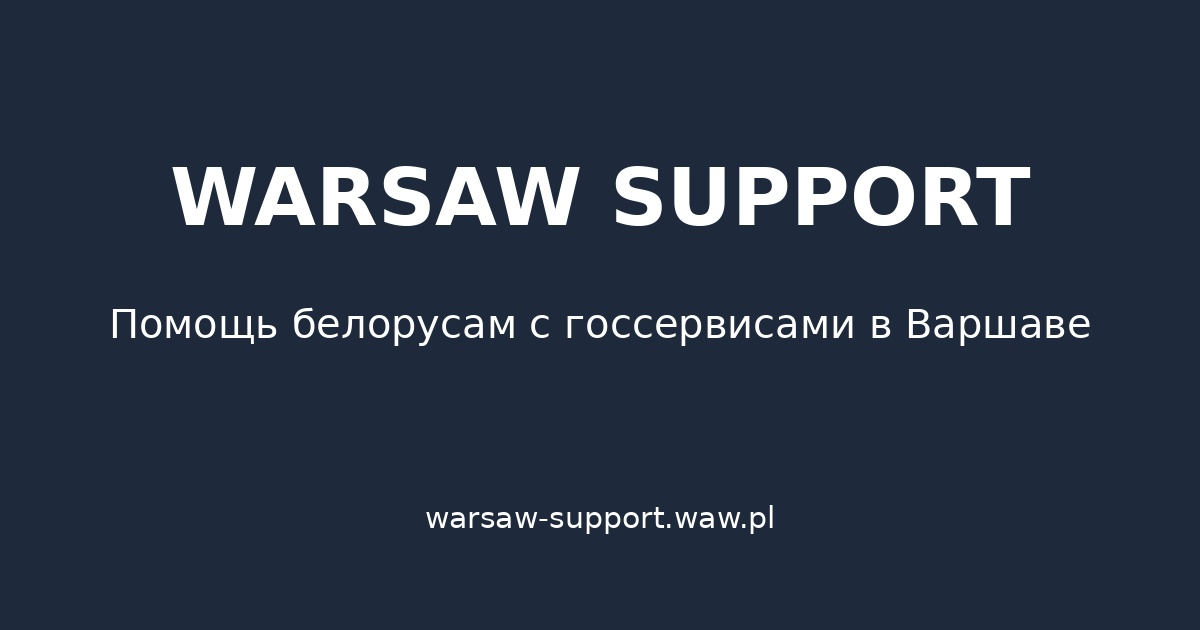
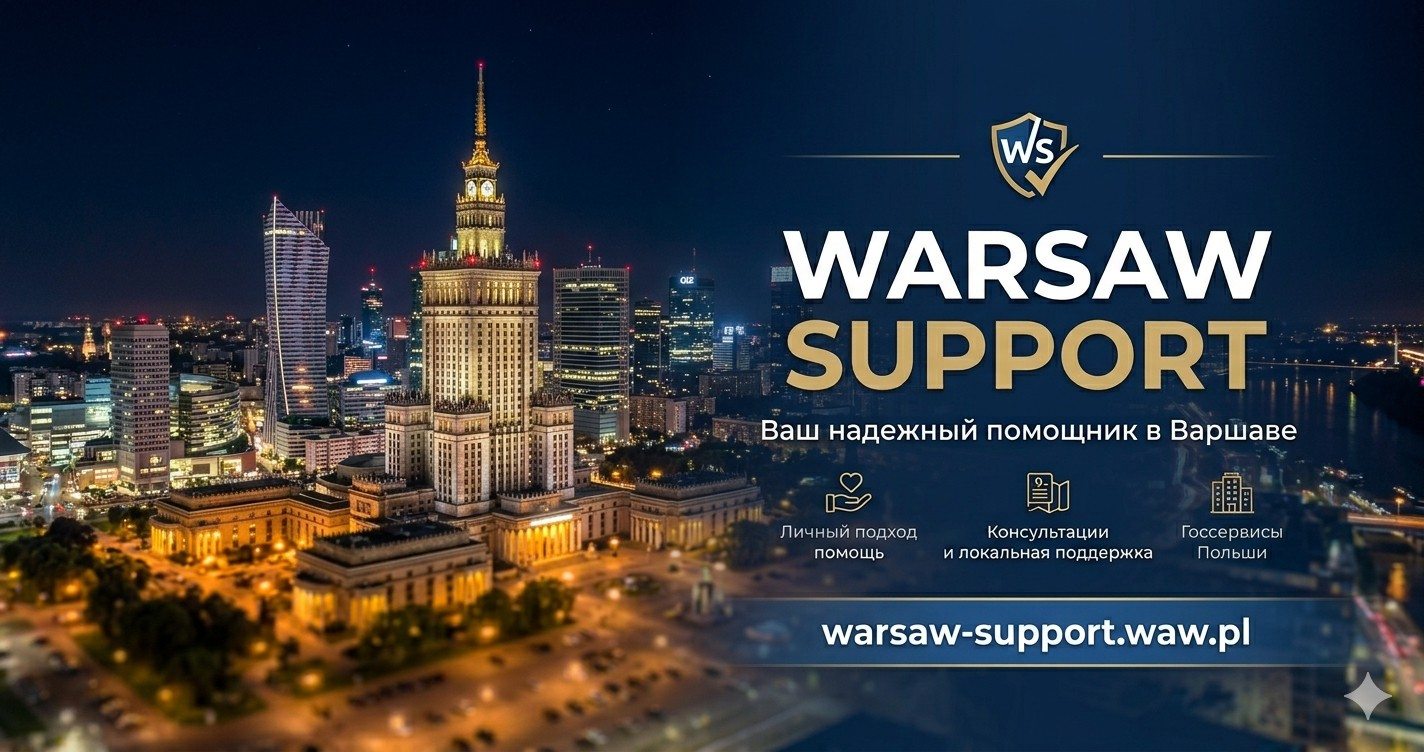
fix: adjust spacing for pop-up elements and update og-image
- Reduced gap in cookie notice from 24px to 12px.
- Reduced margin-top for open bento and FAQ items from 0.4rem to 0.25rem.
- Reduced gap in FAB menu from 0.4rem to 0.25rem.
- Replaced og-image.jpg with the updated version and updated meta tags.
- Verified all spacing changes via visual regression screenshots.

diff --git a/index.html b/index.html
@@ -17,8 +17,8 @@
     <meta property="og:locale" content="ru_RU">
     <meta property="og:site_name" content="Warsaw Support">
     <meta property="og:image" content="https://warsaw-support.waw.pl/og-image.jpg">
-    <meta property="og:image:width" content="1200">
-    <meta property="og:image:height" content="630">
+    <meta property="og:image:width" content="1424">
+    <meta property="og:image:height" content="752">
 
     <!-- Twitter Card -->
     <meta name="twitter:card" content="summary_large_image">
@@ -398,7 +398,7 @@
         .bento-item h4::after { content: "+"; color: var(--text-muted); font-size: 1.2rem; transition: transform 0.3s; }
         .bento-item.open h4::after { transform: rotate(45deg); color: var(--tg-color); }
         .bento-content { max-height: 0; overflow: hidden; transition: max-height 0.3s ease; font-size: 0.9rem; color: var(--text-muted); line-height: 1.5; }
-        .bento-item.open .bento-content { max-height: 18.75rem; margin-top: 0.4rem; color: #1e293b; }
+        .bento-item.open .bento-content { max-height: 18.75rem; margin-top: 0.25rem; color: #1e293b; }
 
         .steps-layout {
             display: flex;
@@ -475,7 +475,7 @@
         .faq-question::after { content: "+"; color: var(--text-muted); font-size: 1.1rem; transition: transform 0.3s; }
         .faq-item.open .faq-question::after { transform: rotate(45deg); color: var(--accent); }
         .faq-answer { max-height: 0; overflow: hidden; transition: max-height 0.3s ease; font-size: 0.9rem; color: var(--text-muted); }
-        .faq-item.open .faq-answer { max-height: 18.75rem; margin-top: 0.4rem; color: #1e293b; }
+        .faq-item.open .faq-answer { max-height: 18.75rem; margin-top: 0.25rem; color: #1e293b; }
 
 
         .quiz-container {
@@ -677,7 +677,7 @@
             display: flex;
             flex-direction: column-reverse;
             align-items: flex-end;
-            gap: 0.4rem;
+            gap: 0.25rem;
             opacity: 0;
             pointer-events: none;
             transform: translateY(1rem);
@@ -1164,7 +1164,7 @@
         </div>
     </div>
 
-    <div id="cookieNotice" style="position: fixed; bottom: 0; left: 0; right: 0; background: var(--surface); border-top: 1px solid var(--border); padding: 16px 24px; z-index: 5000; box-shadow: 0 -4px 20px rgba(0,0,0,0.05); display: none; align-items: center; justify-content: center; gap: 24px; flex-wrap: wrap;">
+    <div id="cookieNotice" style="position: fixed; bottom: 0; left: 0; right: 0; background: var(--surface); border-top: 1px solid var(--border); padding: 16px 24px; z-index: 5000; box-shadow: 0 -4px 20px rgba(0,0,0,0.05); display: none; align-items: center; justify-content: center; gap: 12px; flex-wrap: wrap;">
         <p style="font-size: 0.85rem; margin: 0; color: var(--text-muted); text-align: center; font-weight: 500;">Этот сайт использует файлы cookie. Продолжая использование вы соглашаетесь с <a href="privacy.html" style="color: var(--accent); font-weight: 700; text-decoration: underline;">политикой конфиденциальности</a>.</p>
         <button onclick="acceptCookies()" style="background: var(--accent); color: #fff; border: none; padding: 10px 24px; border-radius: 8px; font-weight: 700; cursor: pointer; font-size: 0.8rem;  text-transform: uppercase; letter-spacing: 0.05em;">Понятно</button>
     </div>
@@ -1229,6 +1229,7 @@
         sidebarOverlay.addEventListener('click', toggleSidebar);
 
         // Scroll Reveal Animation with fallback
+        var reveals = document.querySelectorAll('.reveal');
         if ('IntersectionObserver' in window) {
             var observer = new IntersectionObserver(function(entries) {
                 entries.forEach(function(entry) {
@@ -1239,12 +1240,12 @@
                 });
             }, { threshold: 0.1 });
 
-            document.querySelectorAll('.reveal').forEach(function(el) {
+            reveals.forEach(function(el) {
                 observer.observe(el);
             });
         } else {
             // Fallback for older browsers
-            document.querySelectorAll('.reveal').forEach(function(el) {
+            reveals.forEach(function(el) {
                 el.classList.add('active');
             });
         }
@@ -1337,10 +1338,9 @@
         }
 
         setInterval(function() {
-            var burger = document.getElementById('burgerBtn');
-            if (burger) {
-                burger.classList.add('wiggle');
-                setTimeout(function() { burger.classList.remove('wiggle'); }, 500);
+            if (burgerBtn) {
+                burgerBtn.classList.add('wiggle');
+                setTimeout(function() { burgerBtn.classList.remove('wiggle'); }, 500);
             }
         }, 5000);
 
